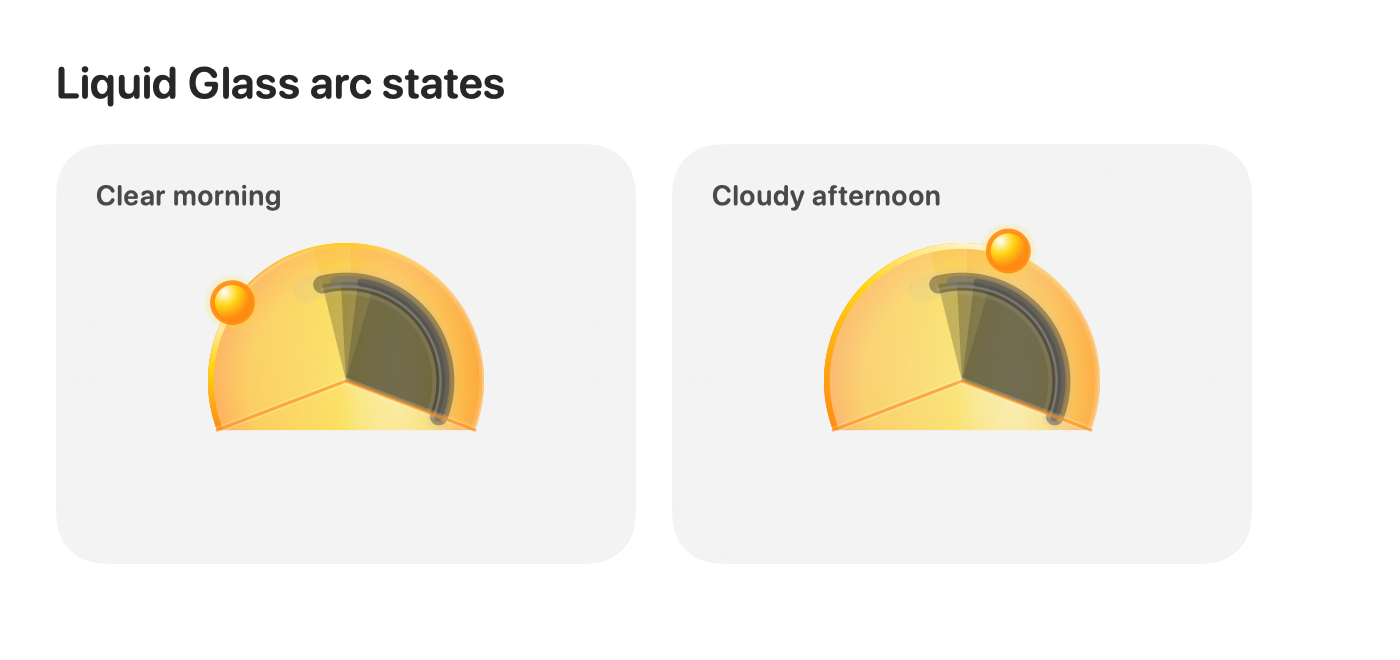
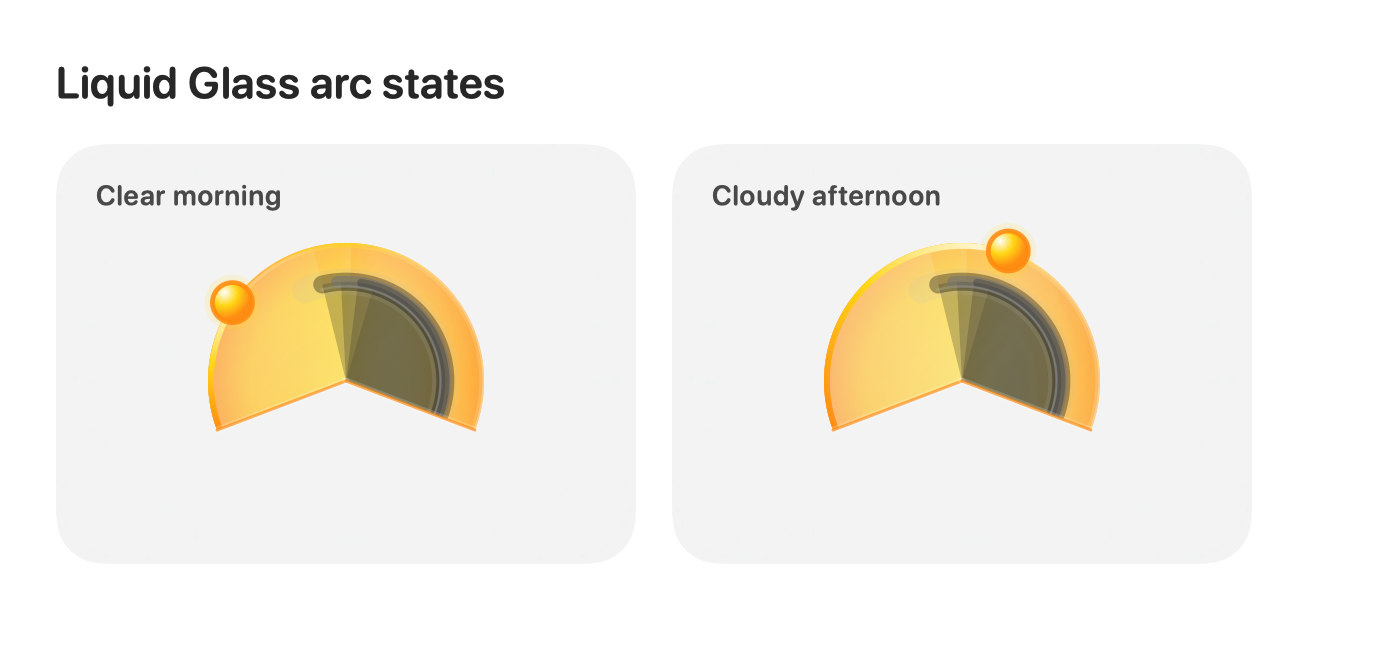
Clear widget arc ground wedge

Changed region(s): [[0.5836, 0.5758, 0.7679, 0.6667], [0.1536, 0.5758, 0.3379, 0.6667]]

diff --git a/Sources/SunStatusUI/SolarArcView.swift b/Sources/SunStatusUI/SolarArcView.swift
@@ -244,6 +244,7 @@ public struct SolarArcView: View {
         drawProportionalCloudCoverArc(in: context, geometry: geometry)
         drawProportionalFutureArc(in: context, geometry: geometry)
         drawProportionalCompletedArc(in: context, geometry: geometry)
+        clearProportionalGroundRegion(in: context, geometry: geometry)
         drawProportionalBoundaryLines(in: context, geometry: geometry)
         drawProportionalSun(in: context, geometry: geometry)
     }
@@ -362,6 +363,15 @@ public struct SolarArcView: View {
             radius: geometry.radius,
             angle: geometry.sunsetAngle,
             color: warmSunlightColor(opacity: 0.66)
+        )
+    }
+
+    private func clearProportionalGroundRegion(in context: GraphicsContext, geometry: ProportionalDaylightArcGeometry) {
+        var cutoutContext = context
+        cutoutContext.blendMode = .destinationOut
+        cutoutContext.fill(
+            proportionalGroundCutoutPath(geometry: geometry),
+            with: .color(.white)
         )
     }
 
@@ -745,6 +755,22 @@ public struct SolarArcView: View {
             endAngle: Angle(radians: Double(startAngle)),
             clockwise: true
         )
+        path.closeSubpath()
+        return path
+    }
+
+    private func proportionalGroundCutoutPath(geometry: ProportionalDaylightArcGeometry) -> Path {
+        let left = geometry.point(at: 0)
+        let center = geometry.center
+        let right = geometry.point(at: 1)
+        let overscan = max(geometry.size.width, geometry.size.height)
+
+        var path = Path()
+        path.move(to: left)
+        path.addLine(to: center)
+        path.addLine(to: right)
+        path.addLine(to: CGPoint(x: geometry.size.width + overscan, y: geometry.size.height + overscan))
+        path.addLine(to: CGPoint(x: -overscan, y: geometry.size.height + overscan))
         path.closeSubpath()
         return path
     }

diff --git a/CHANGELOG.md b/CHANGELOG.md
@@ -22,7 +22,7 @@ All notable changes to SunStatus will be documented in this file.
 - Refined proportional daytime widget cloud shading so heavy cloud cover darkens the center-reaching area below the cloud layer instead of only the arc ring.
 - Replaced the widget header's flat SF Symbol with a smoother glass-styled dynamic icon that reflects day, night, daylight progress, and cloud cover.
 - Restyled the proportional daytime widget arc with smoother glass-like sunlight, cloud-shadow, rim, sunrise/sunset, and sun treatments driven by brightness and forecast cloud-cover samples.
-- Tightened proportional daytime arc clipping so sunlight stops at the sunrise and sunset guide lines, and replaced segmented cloud strokes with continuous cloud bands to avoid rasterized shading artifacts.
+- Tightened proportional daytime arc clipping so sunlight stops at the sunrise and sunset guide lines, cleared the lower ground wedge, and replaced segmented cloud strokes with continuous cloud bands to avoid rasterized shading artifacts.
 - Increased the small widget's night disk size by removing the bottom text rows and giving the arc more vertical room.
 - Expanded night-mode arc rendering and preview-time behavior so the slider can represent the full overnight timeline into the next sunrise.
 - Updated the app, widget extension, Xcode project, and scheme wiring so WidgetKit previews and tests are available from Xcode.
